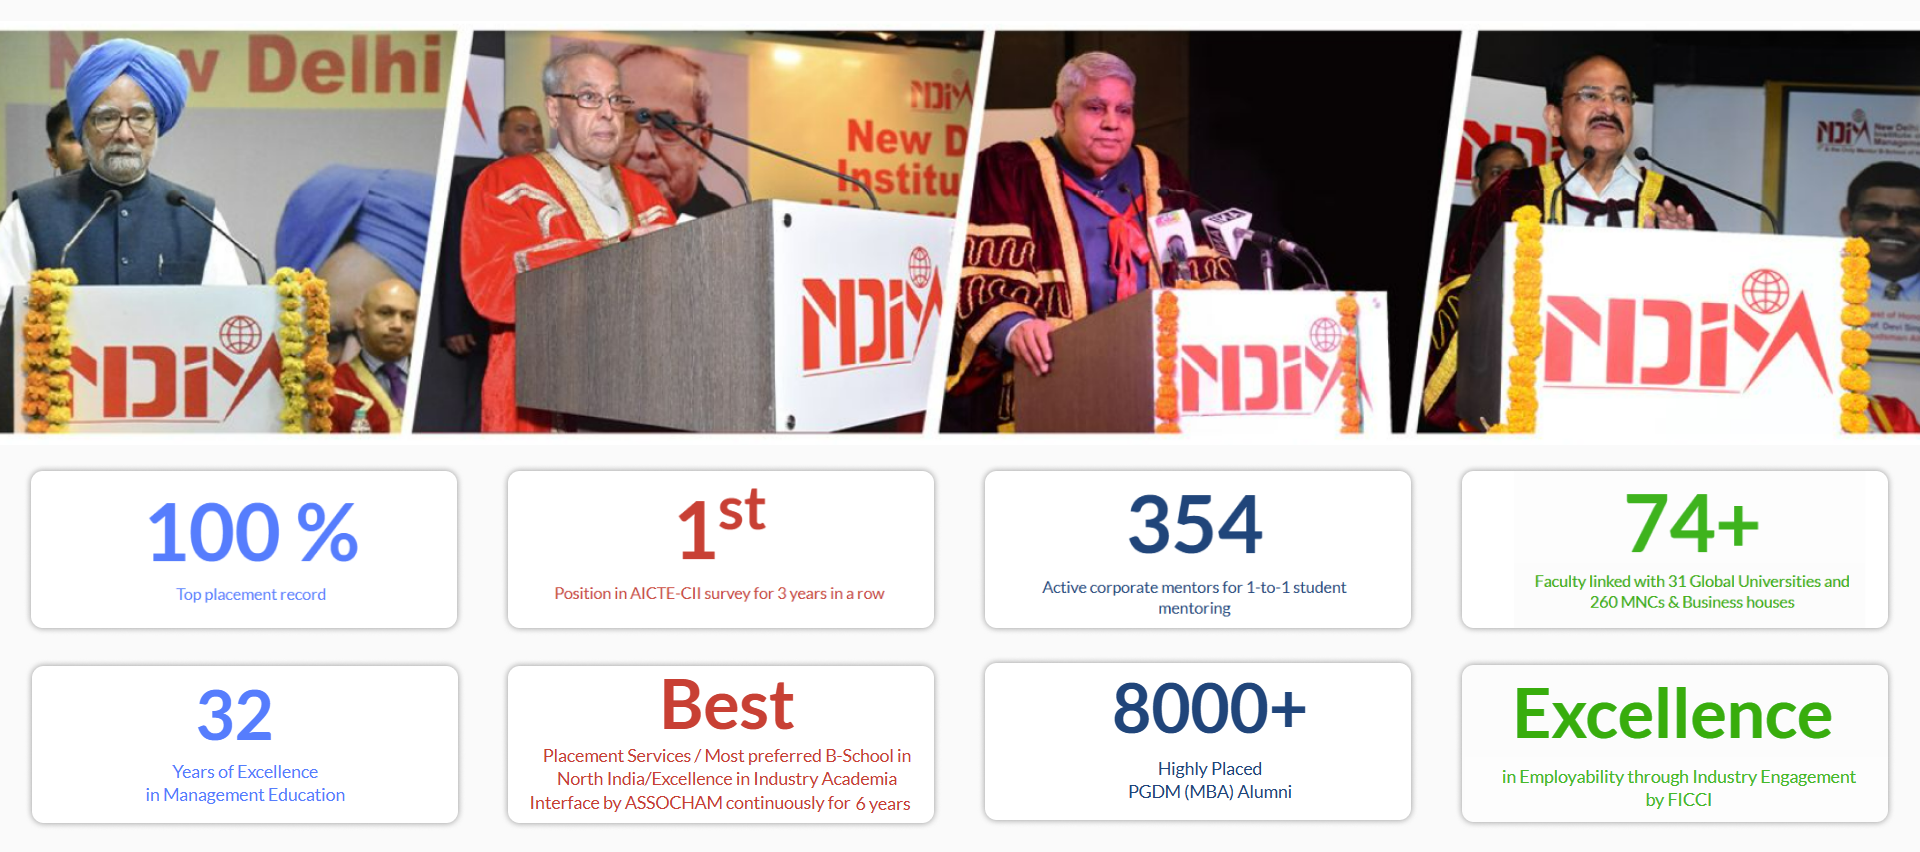
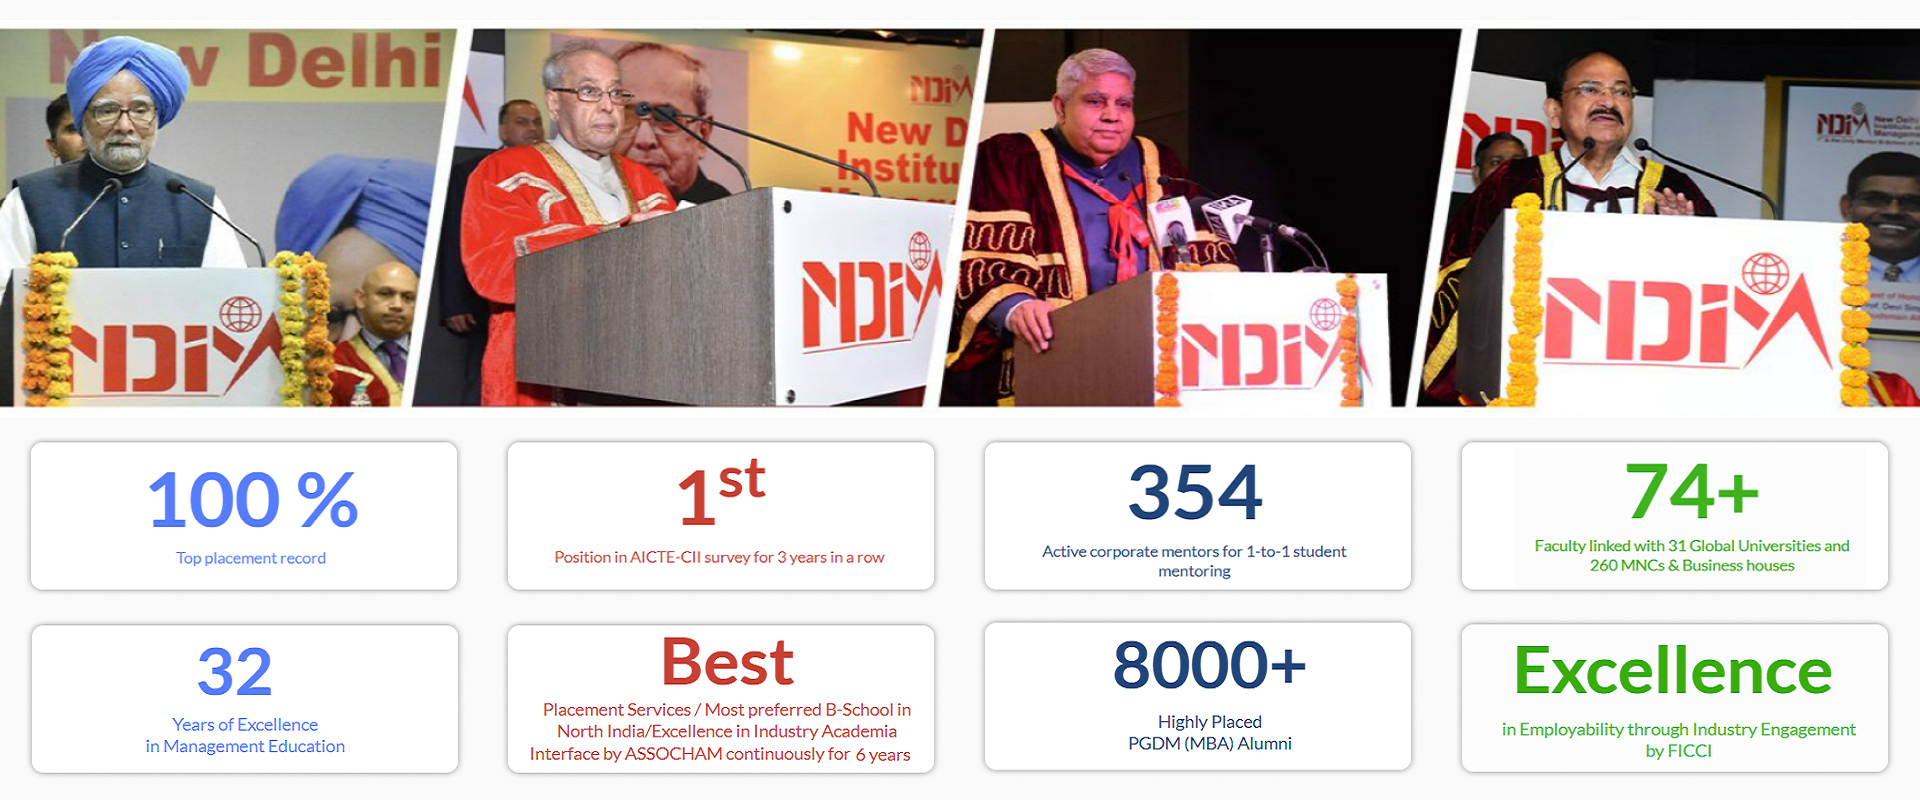
shadabnewuploadndimcode

diff --git a/alumni-registration-form.php b/alumni-registration-form.php
@@ -213,7 +213,7 @@ if (isPost()) {
             $mailBodyContent = '';
 
             $mailBodyContent = '<div style="padding:20px 0px; text-align:center; background-color:#FFFFFF;"><a href="' . $fullurl . 'timeline.html" style="border:0px;">
-		<img src="' . $fullurl . 'images/ndimlogo.png" width="217" style="border:0px;"></a></div><div style="background-color:#f4f4f4; font-family:Arial, Helvetica, sans-serif; font-size:13px; overflow:scroll; padding:30px 0px;text-align:center;">
+		<img src="' . $fullurl . 'images/logo.png" width="217" style="border:0px;"></a></div><div style="background-color:#f4f4f4; font-family:Arial, Helvetica, sans-serif; font-size:13px; overflow:scroll; padding:30px 0px;text-align:center;">
 <div style="margin:auto; width:100%; background-color:#FFFFFF; text-align:left;">
 <table style="width:100%;background-color: #e8e8e8;">
 <tbody><tr>
@@ -465,7 +465,7 @@ color: #afafaf;">Powered by ' . $companNameTitle . '
     <div id="wrapper">
         <header class="container">
             <div class="logo logo_marg"><a href="<?php echo $fullurl; ?>"><img
-                        src="<?php echo $fullurl; ?>images/ndimlogo.png"></a></div>
+                        src="<?php echo $fullurl; ?>images/logo.png"></a></div>
             <div class="header_right" style="display:none;">
                 <form class="login-form" name="kUserLogin" id="kUserLogin" method="post" style="display:none1;">
                     <div class="login-inputs">
@@ -546,8 +546,8 @@ color: #afafaf;">Powered by ' . $companNameTitle . '
                                         $strSelected = "";
                                     }
                                     ?>
-                                        <option value="<?php echo $d; ?>" <?php echo $strSelected; ?>><?php echo $d; ?></option>
-                                        <?php
+                                    <option value="<?php echo $d; ?>" <?php echo $strSelected; ?>><?php echo $d; ?></option>
+                                    <?php
                                 }
                                 ?>
                             </select>
@@ -563,11 +563,11 @@ color: #afafaf;">Powered by ' . $companNameTitle . '
                                         $strSelected = "";
                                     }
                                     ?>
-                                        <option value="<?php echo $m; ?>" <?php echo $strSelected; ?>>
-                                            <?php //echo $m; 
-                                                ?>         <?php echo date('F', mktime(0, 0, 0, $m, 1)); ?>
-                                        </option>
-                                        <?php
+                                    <option value="<?php echo $m; ?>" <?php echo $strSelected; ?>>
+                                        <?php //echo $m; 
+                                            ?>     <?php echo date('F', mktime(0, 0, 0, $m, 1)); ?>
+                                    </option>
+                                    <?php
                                 }
                                 ?>
 
@@ -584,8 +584,8 @@ color: #afafaf;">Powered by ' . $companNameTitle . '
                                         $strSelected = "";
                                     }
                                     ?>
-                                        <option value="<?php echo $y; ?>" <?php echo $strSelected; ?>><?php echo $y; ?></option>
-                                        <?php
+                                    <option value="<?php echo $y; ?>" <?php echo $strSelected; ?>><?php echo $y; ?></option>
+                                    <?php
                                 }
                                 ?>
                             </select>
@@ -661,10 +661,10 @@ color: #afafaf;">Powered by ' . $companNameTitle . '
                                         while ($rowOptions = mysqli_fetch_array($resOptions)) {
 
                                             ?>
-                                                    <option value="<?php echo trim($rowOptions['course_name']); ?>">
-                                                        <?php echo trim($rowOptions['course_name']); ?>
-                                                    </option>
-                                                    <?php
+                                            <option value="<?php echo trim($rowOptions['course_name']); ?>">
+                                                <?php echo trim($rowOptions['course_name']); ?>
+                                            </option>
+                                            <?php
                                         }
                                     }
                                     ?>
@@ -688,10 +688,10 @@ color: #afafaf;">Powered by ' . $companNameTitle . '
                                         while ($rowOptions = mysqli_fetch_array($resOptions)) {
 
                                             ?>
-                                                    <option value="<?php echo trim($rowOptions['department_name']); ?>">
-                                                        <?php echo trim($rowOptions['department_name']); ?>
-                                                    </option>
-                                                    <?php
+                                            <option value="<?php echo trim($rowOptions['department_name']); ?>">
+                                                <?php echo trim($rowOptions['department_name']); ?>
+                                            </option>
+                                            <?php
                                         }
                                     }
                                     ?>
@@ -708,11 +708,11 @@ color: #afafaf;">Powered by ' . $companNameTitle . '
                                     $end = date('Y-m-d', strtotime('+5 years'));
                                     while ($currentdate <= $end) {
                                         ?>
-                                            <option value="<?php echo $currentdate; ?>" <?php if ($currentdate == '2025') {
-                                                   echo 'selected';
-                                               } ?>> <?php echo $currentdate;
-                                                $currentdate++; ?></option>
-                                            <?php
+                                        <option value="<?php echo $currentdate; ?>" <?php if ($currentdate == '2025') {
+                                               echo 'selected';
+                                           } ?>> <?php echo $currentdate;
+                                            $currentdate++; ?></option>
+                                        <?php
                                     }
                                     ?>
                                 </select>
@@ -728,9 +728,9 @@ color: #afafaf;">Powered by ' . $companNameTitle . '
                                     $currentdate = date("Y");
                                     while ($staringdate <= $currentdate) {
                                         ?>
-                                            <option value="<?php echo $staringdate; ?>"><?php echo $staringdate;
-                                               $staringdate++; ?></option>
-                                            <?php
+                                        <option value="<?php echo $staringdate; ?>"><?php echo $staringdate;
+                                           $staringdate++; ?></option>
+                                        <?php
                                     }
                                     ?>
                                 </select>
@@ -760,10 +760,10 @@ color: #afafaf;">Powered by ' . $companNameTitle . '
                                                 $strSelected = "";
                                             }
                                             ?>
-                                                    <option value="<?php echo trim($rowOptions['id']); ?>" <?php echo $strSelected; ?>>
-                                                        <?php echo trim($rowOptions['optionName']); ?>
-                                                    </option>
-                                                    <?php
+                                            <option value="<?php echo trim($rowOptions['id']); ?>" <?php echo $strSelected; ?>>
+                                                <?php echo trim($rowOptions['optionName']); ?>
+                                            </option>
+                                            <?php
                                         }
                                     }
                                     ?>

diff --git a/footer.php b/footer.php
@@ -866,12 +866,19 @@ if (isset($_SESSION["sessUserId"]) && $_SESSION["sessUserId"] != '' && $_SESSION
 <?php } else { ?>
 
 
+  <style>
+    .hide-mob-footer .container {
+      width: 90%;
+      max-width: 1000px;
+      margin: 0 auto;
+    }
+  </style>
   <footer class="hide-mob-footer">
     <div class="container">
       <div class="footer-left"><strong>
           <div>
             <div style="font-weight:normal;">
-              <div style="float:left;">&copy; <?php echo date("Y"); ?>&nbsp;Jamia Millia Islamia VECOSPACE &nbsp;|
+              <div style="float:left;">&copy; <?php echo date("Y"); ?>&nbsp;NDIM VECOSPACE &nbsp;|
                 &nbsp;Powered by &nbsp;&nbsp;&nbsp;</div>
               <div><a href="http://deboxglobal.com/"><img src="images/Logo De Boxpng.png" style="width:50px;"></a></div>
             </div>
@@ -1019,10 +1026,10 @@ if (isset($_SESSION["sessUserId"]) && $_SESSION["sessUserId"] != '' && $_SESSION
   <?php
   if ($_SESSION["sessUserId"] != '' && $_SESSION["sessUserId"] != 0) {
     ?>
-                      /*var sessionsss = setInterval(function () {
-                      //$('#checkscmntmsgtimeleftdiv').load('<?php $fullurl; ?>check_page_session.php');
+                                        /*var sessionsss = setInterval(function () {
+                                        //$('#checkscmntmsgtimeleftdiv').load('<?php $fullurl; ?>check_page_session.php');
 
-                      }, 5000);*/
+                                        }, 5000);*/
 
   <?php } ?>
 </script>

diff --git a/index.php b/index.php
@@ -384,13 +384,13 @@ Thank you for registering with us. We are thrilled to have you on ' . $companNam
 		</header>
 		<div class="banner2">
 			<div class="banner">
-				<div class="mobile-overlay-container">
+				<!-- <div class="mobile-overlay-container">
 					<div class="mobile-message">
 						<div style="font-size:16px; font-weight:500;">An Initiative By</div>
 						<div style="font-size:18px; font-weight:700;">UNIVERSITY PLACEMENT CELL</div>
 						<div style="font-size:20px; font-weight:500;">Jamia Millia Islamia</div>
 					</div>
-				</div>
+				</div> -->
 
 				<div class="bannerblkbg"></div>
 				<div class="container">
@@ -547,7 +547,7 @@ Thank you for registering with us. We are thrilled to have you on ' . $companNam
 				<div class="footer-left2"><strong>
 						<div>
 							<div style="font-weight:normal;">
-								<div style="float:left;">© 2023&nbsp;Jamia Millia Islamia VECOSPACE &nbsp;|
+								<div style="float:left;">© 2023&nbsp;NDIM VECOSPACE &nbsp;|
 									&nbsp;Powered by &nbsp;&nbsp;&nbsp;</div>
 								<div><a href="http://deboxglobal.com/"><img src="images/Logo De Boxpng.png"
 											style="width:50px;"></a></div>

diff --git a/callback.php b/callback.php
@@ -188,7 +188,7 @@ if (count($result) > 0) {
                 <tr>
                     <td align="center" valign="top" style="width:100%;padding:20px 0">
                         <a href="' . $fullurl . '" target="_blank" >
-                            <img src="' . $fullurl . 'images/ndimlogo.png" alt="' . $companNameTitle . '" width="100%" border="0" align="center" style="display:inline-block;text-align:center;max-width:140px">                        </a>                    </td>
+                            <img src="' . $fullurl . 'images/logo.png" alt="' . $companNameTitle . '" width="100%" border="0" align="center" style="display:inline-block;text-align:center;max-width:140px">                        </a>                    </td>
                 </tr>
                 <tr>
                   <td align="center" width="100%" style="background:#fff;color:#484848;padding:40px;border-radius:4px;    border-bottom: #33a9d7 solid 5px;">

diff --git a/right-sidebar.php b/right-sidebar.php
@@ -322,7 +322,7 @@ if ($jcarousellite != 1) { ?>
 					<li><a href="<?php echo $fullurl; ?>about.html" target="_blank">About</a></li>
 					<li><a href="<?php echo $fullurl; ?>faq.html" target="_blank">FAQ's</a></li>
 				</ul>
-				<p> &copy; <?php echo date("Y"); ?>&nbsp;Jamia Millia Islamia VECOSPACE</p>
+				<p> &copy; <?php echo date("Y"); ?>&nbsp;NDIM VECOSPACE</p>
 				<div class="pwrddebox">
 					<div style="float:left"><span style="color: #9f9f9f;">Powered by &nbsp;&nbsp;&nbsp;</span></div>
 					<div style="float:left"> <a href="http://deboxglobal.com/"><img

diff --git a/aboutpage.php b/aboutpage.php
@@ -26,7 +26,7 @@ $post_result = mysqli_fetch_array($re2);
   <div class="aboutheader">
     <div class="container">
       <div class="logo">
-        <a style="margin-top:0px; margin-bottom:0px;" href="<?php echo $fullurl; ?>"><img src="images/ndimlogo.png"
+        <a style="margin-top:0px; margin-bottom:0px;" href="<?php echo $fullurl; ?>"><img src="images/logo.png"
             style="width: 275px;" /></a>
       </div>
       <?php if ($_SESSION["sessUserId"] != '' && $_SESSION["sessUserId"] != 0) { ?>
